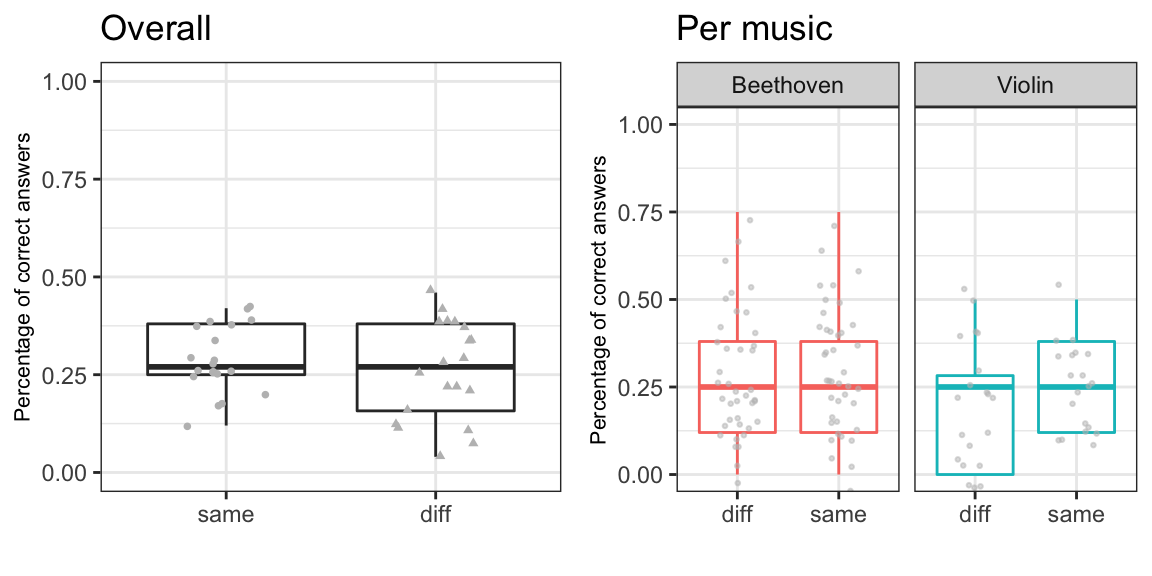
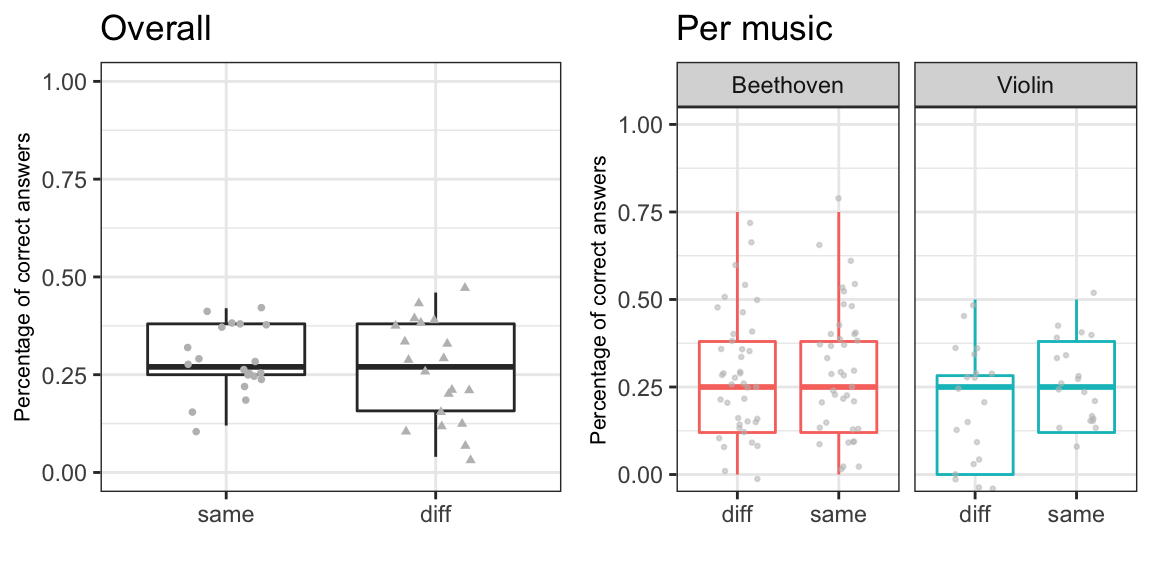
update anttikuusinen.github.io

diff --git a/post/2020-22-01-OnAnalysisOfCHMData/2020-22-01-onanalysisofchmdata/index.html b/post/2020-22-01-OnAnalysisOfCHMData/2020-22-01-onanalysisofchmdata/index.html
@@ -689,7 +689,7 @@ theme(axis.title.y = element_text(size = 8)) + ggtitle(&#39;Per music&#39;)
 
 library(gridExtra) # for grid.arrange()
 grid.arrange(g1,g2,nrow = 1)</code></pre>
-<p><img src="../../../post/2020-22-01-OnAnalysisOfCHMData/2020-22-01-OnAnalysisOfCHMData_files/figure-html/boxplots-1.png" width="576" /></p>
+<p><img src="../../../post/2020-22-01-onanalysisofchmdata/2020-22-01-onanalysisofchmdata_files/figure-html/boxplots-1.png" width="576" /></p>
 <p>Now we have the first view of our data. Note, that as expected with randomised data, the mean percentages of correct answers set nicely on the change level of 1/4 = 25 % as it should be.</p>
 <p>With another dataset, one would be inclined to run a test, such as Kruskal-Wallis rank sum test (non-parametric one way anova by ranks) to test whether the distributions of the percentages of correct answers differ between the same and difference cases. Using the m1-data from above, one may run this e.g., by kruskal.test(x=m1$value, g=m1$samedifflist).</p>
 <p>Now, besides just looking at the correct answers, we can look at the actual perceived halls (ANS column) versus the true (REF column) halls.</p>
@@ -910,7 +910,7 @@ geom_text(aes(Response, Reference, label = value), color = &quot;black&quot;, si
 #gdiff
 
 grid.arrange(gsame,gdiff,nrow=1)</code></pre>
-<p><img src="../../../post/2020-22-01-OnAnalysisOfCHMData/2020-22-01-OnAnalysisOfCHMData_files/figure-html/unnamed-chunk-5-1.png" width="672" /></p>
+<p><img src="../../../post/2020-22-01-onanalysisofchmdata/2020-22-01-onanalysisofchmdata_files/figure-html/unnamed-chunk-5-1.png" width="672" /></p>
 <p>So there we are! And we will stop for now with this simulated dataset.</p>
 </div>
 <div id="next-steps.." class="section level3">
